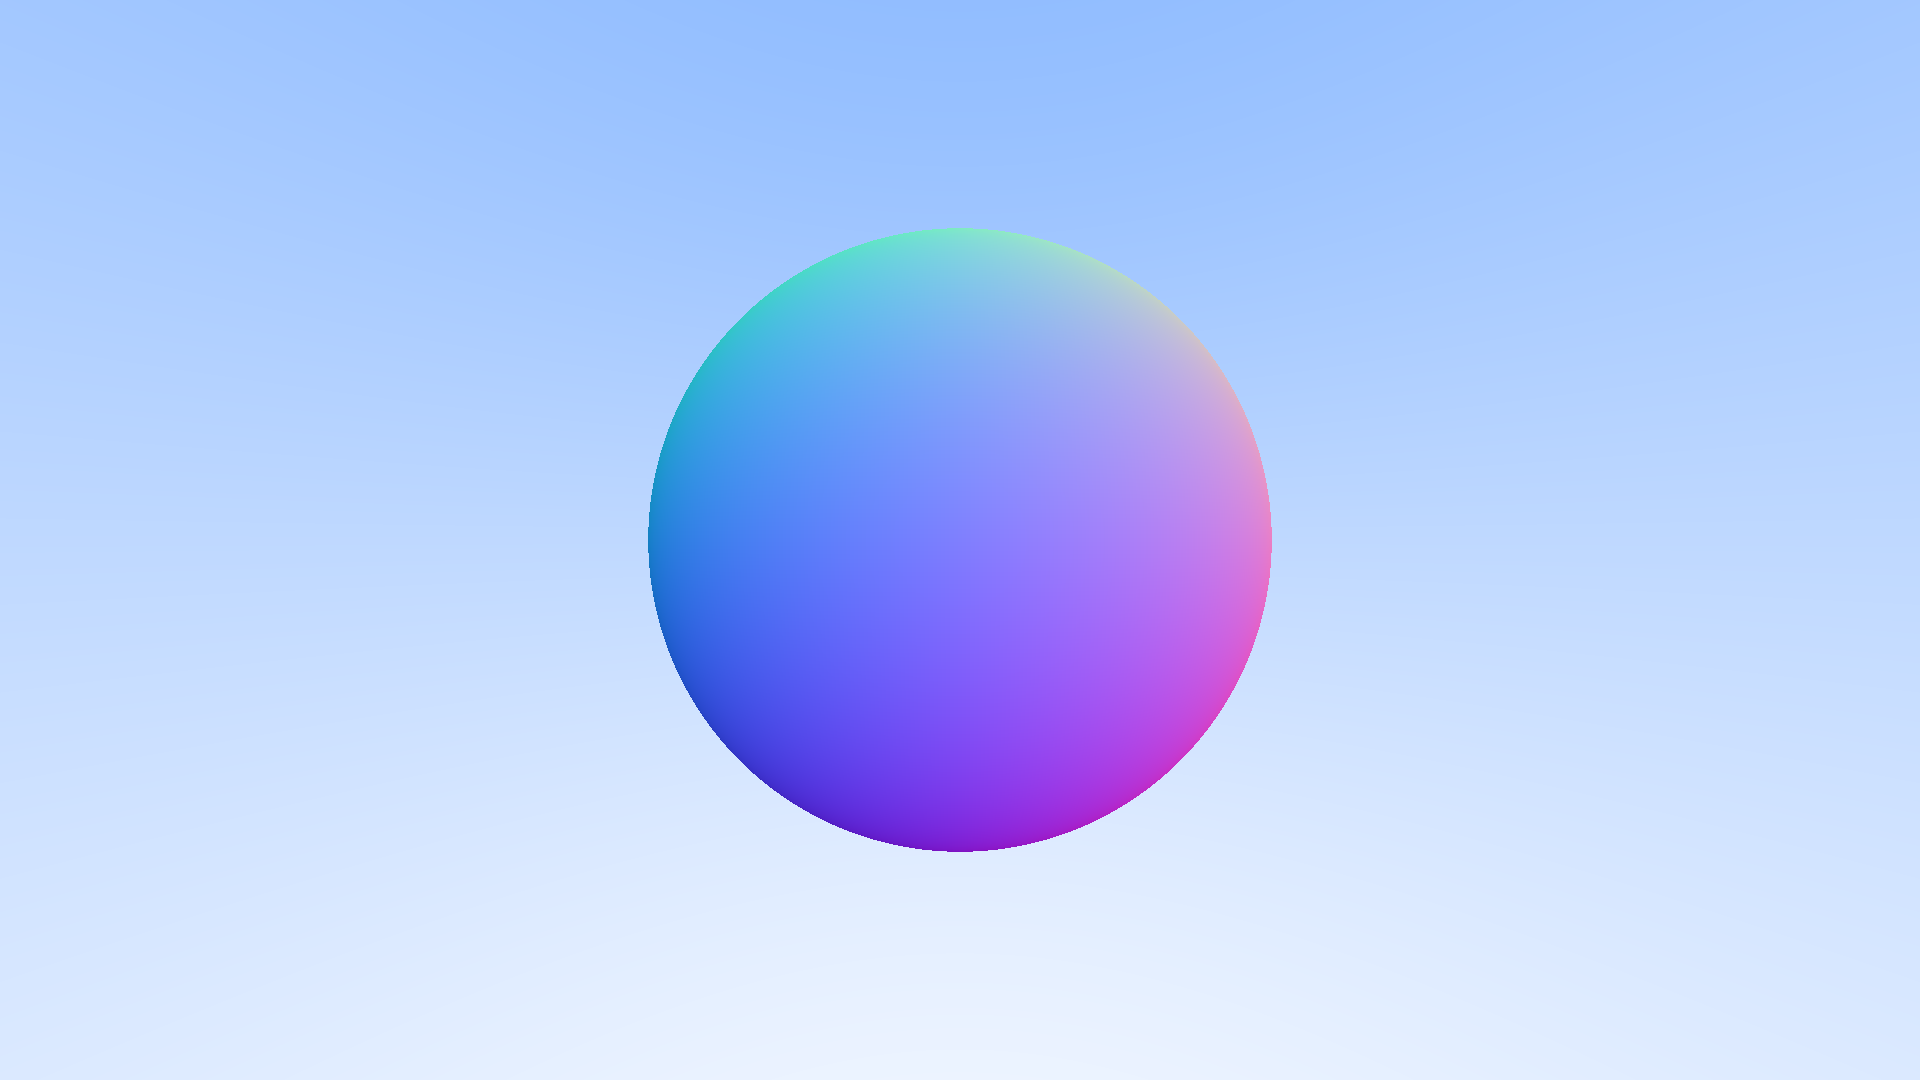
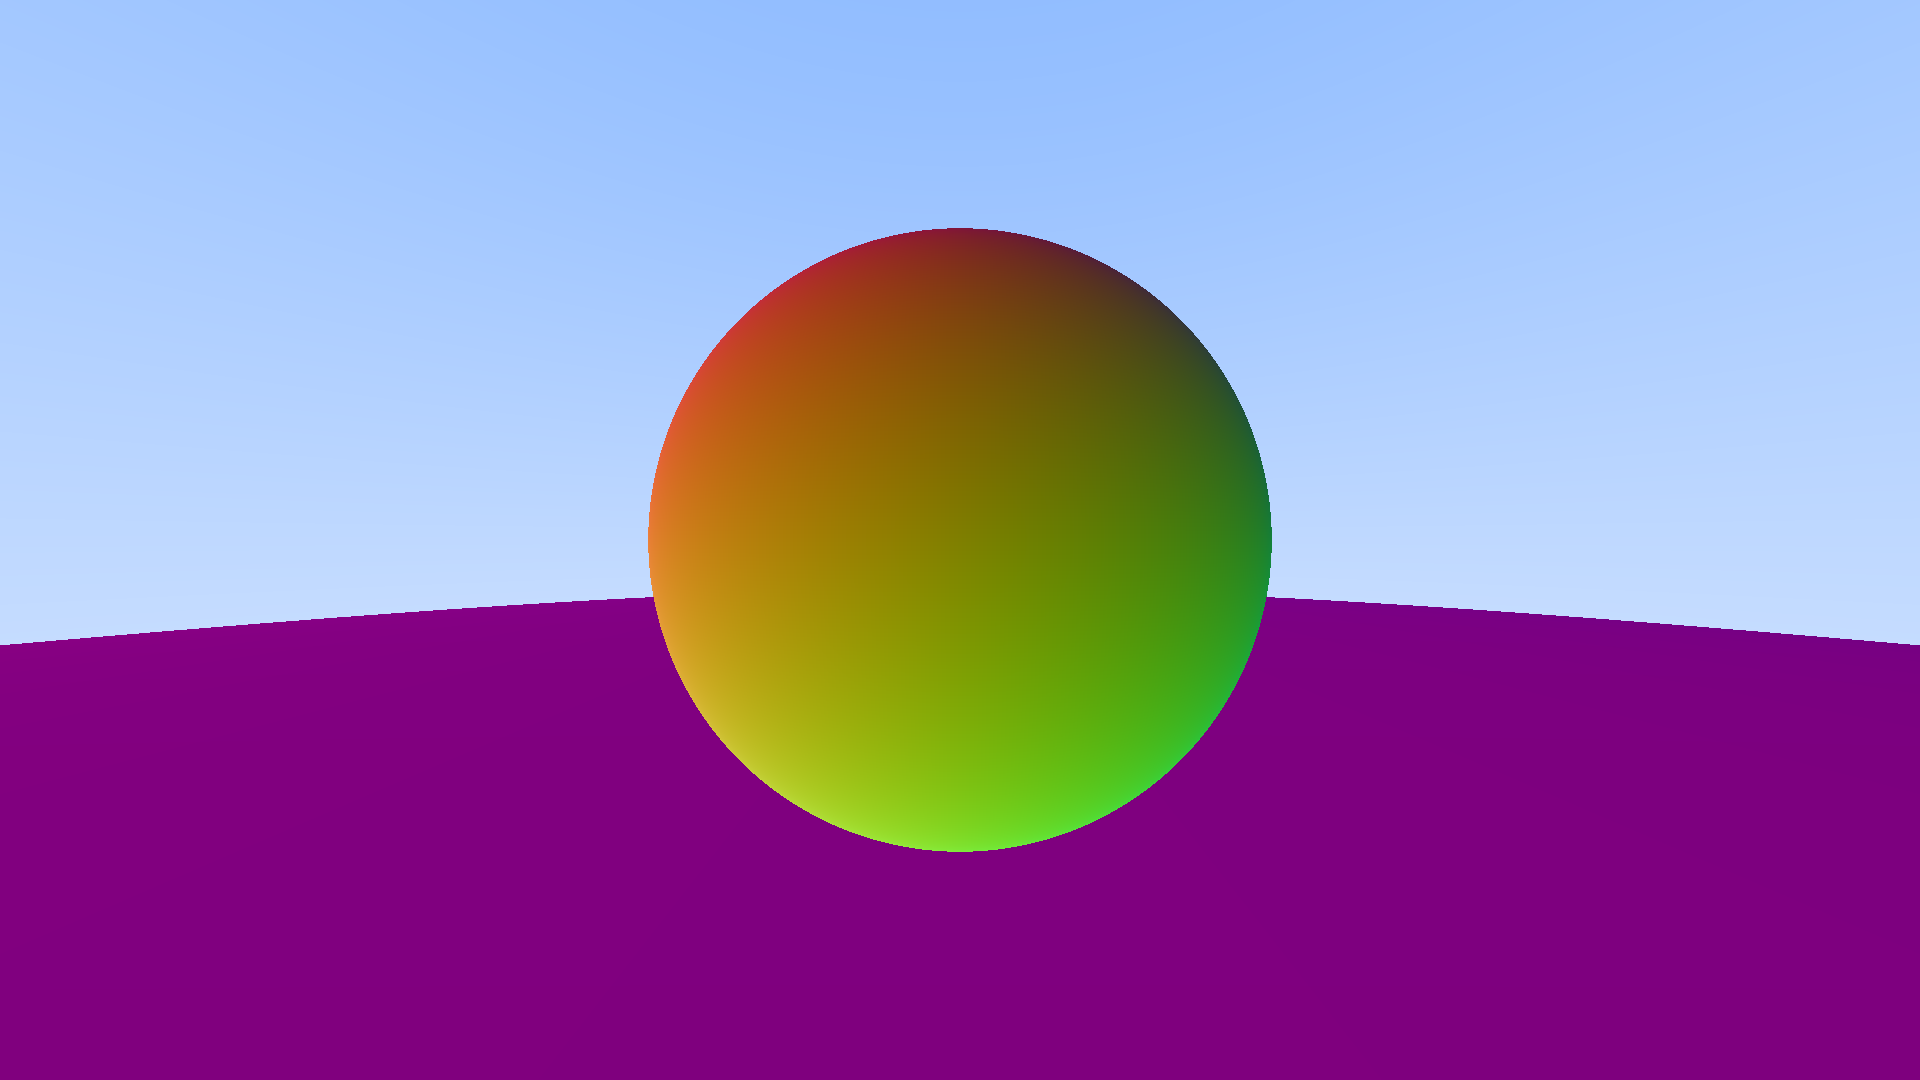
introduced hittable object;

diff --git a/src/geom/vector.h b/src/geom/vector.h
@@ -47,6 +47,7 @@ public:
                       coordinates[2] + other.coordinates[2]);
     }
 
+
     __device__ __host__ vector operator-(const vector &other) const {
         return vector(coordinates[0] - other.coordinates[0],
                       coordinates[1] - other.coordinates[1],
@@ -56,9 +57,42 @@ public:
     __device__ __host__ vector operator*(float scalar) const {
         return vector(coordinates[0] * scalar, coordinates[1] * scalar, coordinates[2] * scalar);
     }
+    __device__ __host__ friend vector operator*(float scalar, const vector &v) {
+        return v * scalar;
+    }
 
     __device__ __host__ vector operator/(float scalar) const {
         return vector(coordinates[0] / scalar, coordinates[1] / scalar, coordinates[2] / scalar);
+    }
+
+    __device__ __host__ vector operator+=(const vector &other) {
+        coordinates[0] += other.coordinates[0];
+        coordinates[1] += other.coordinates[1];
+        coordinates[2] += other.coordinates[2];
+        return *this;
+    }
+
+    __device__ __host__ vector operator-=(const vector &other) {
+        coordinates[0] -= other.coordinates[0];
+        coordinates[1] -= other.coordinates[1];
+        coordinates[2] -= other.coordinates[2];
+        return *this;
+    }
+
+    __device__ __host__ vector &operator*=(float scalar) {
+        coordinates[0] *= scalar;
+        coordinates[1] *= scalar;
+        coordinates[2] *= scalar;
+        return *this;
+    }
+
+    __device__ __host__ vector &operator/=(float scalar) {
+        const float epsilon = 1e-8f;// Small number to avoid division by zero
+        coordinates[0] /= (std::abs(scalar) > epsilon ? scalar : epsilon);
+        coordinates[1] /= (std::abs(scalar) > epsilon ? scalar : epsilon);
+        coordinates[2] /= (std::abs(scalar) > epsilon ? scalar : epsilon);
+
+        return *this;
     }
 
     __device__ __host__ float dot(const vector &other) const {

diff --git a/src/objects/hittable_list.h b/src/objects/hittable_list.h
@@ -1,0 +1,48 @@
+#ifndef HITTABLE_LIST_H
+#define HITTABLE_LIST_H
+
+#include "../util.h"
+#include "hittable.h"
+
+class hittable_list : public hittable {
+    hittable **obj_list;//  pointer to array of pointers
+    int obj_count;
+
+public:
+    __device__ hittable_list(int obj_count) : obj_count(obj_count) {
+        obj_list = (hittable **) malloc(obj_count * sizeof(hittable *));
+        // checkCudaErrors(cudaMallocManaged((void **) &obj_list, ));
+    }
+
+    __device__ hittable_list(hittable **obj_list, int obj_count) : obj_count(obj_count) {
+        obj_list       = (hittable **) malloc(obj_count * sizeof(hittable *));
+        this->obj_list = new hittable *[obj_count];
+        for (int i = 0; i < obj_count; i++) this->obj_list[i] = obj_list[i];
+    }
+
+    __device__ bool hit(ray const &R, float tmin, float tmax, hit_record &record) const override {
+        auto hit   = false;
+        auto hit_t = tmax;
+        for (int i = 0; i < obj_count; i++) {
+            auto obj = obj_list[i];
+            auto tmp = record;
+            if (obj->hit(R, tmin, hit_t, tmp)) {
+                hit    = true;
+                hit_t  = tmp.t;
+                record = tmp;
+            }
+        }
+        return hit;
+    }
+    __device__ int objects_count() const { return obj_count; }
+    __device__ hittable **objects() const { return obj_list; }
+
+    __device__ ~hittable_list() {
+        free(obj_list);
+    }
+};
+
+using world = hittable_list;
+
+
+#endif

diff --git a/src/objects/sphere.h b/src/objects/sphere.h
@@ -1,0 +1,44 @@
+#ifndef SPHERE_H
+#define SPHERE_H
+#include "hittable.h"
+#include <cmath>
+
+class sphere : public hittable {
+    point3 C;
+    float r;
+
+public:
+    __device__ sphere(point3 const &center, float radius) : C(center), r(radius) {
+        if (r < .0f) r = .0f;
+    }
+
+    __device__ bool hit(ray const &R, float tmin, float tmax, hit_record &record) const override {
+
+        auto oc = C - R.origin();
+
+        auto a = R.direction().dot(R.direction());
+        auto b = -2 * R.direction().dot(oc);
+        auto c = oc.dot(oc) - r * r;
+
+        auto discriminant = b * b - 4 * a * c;
+
+        if (discriminant < 0) return false;
+        auto sqrtd = std::sqrt(discriminant);
+
+
+        auto t = (-b - sqrtd) / (2.0f * a);
+        if (t < tmin || t > tmax) {
+            t = (-b + sqrtd) / (2.0f * a);
+            if (t < tmin || t > tmax) return false;
+        }
+
+        record.t    = t;
+        record.P    = R.at(t);
+        auto normal = (record.P - C) / r;
+        record.set_face_normal(R, normal);
+
+        return true;
+    }
+};
+
+#endif

diff --git a/src/objects/hittable.h b/src/objects/hittable.h
@@ -1,0 +1,28 @@
+#ifndef HITTABLE_H
+#define HITTABLE_H
+
+#include "../geom/ray.h"
+#include "../geom/vector.h"
+
+struct hit_record {
+    point3 P;
+    vector3 N;
+    float t;
+    bool front_face;
+
+
+    __device__ void set_face_normal(ray const &R, vector3 const &normal) {
+        front_face = R.direction().dot(normal) < 0;//  front face facing camera, ray going out the camera, so opposite directions
+
+        N = normal;
+        if (front_face) N *= -1;
+    }
+};
+
+class hittable {
+public:
+    // __device__ virtual ~hittable()                                                              = default;
+    __device__ virtual bool hit(ray const &r, float tmin, float tmax, hit_record &record) const = 0;
+};
+
+#endif
